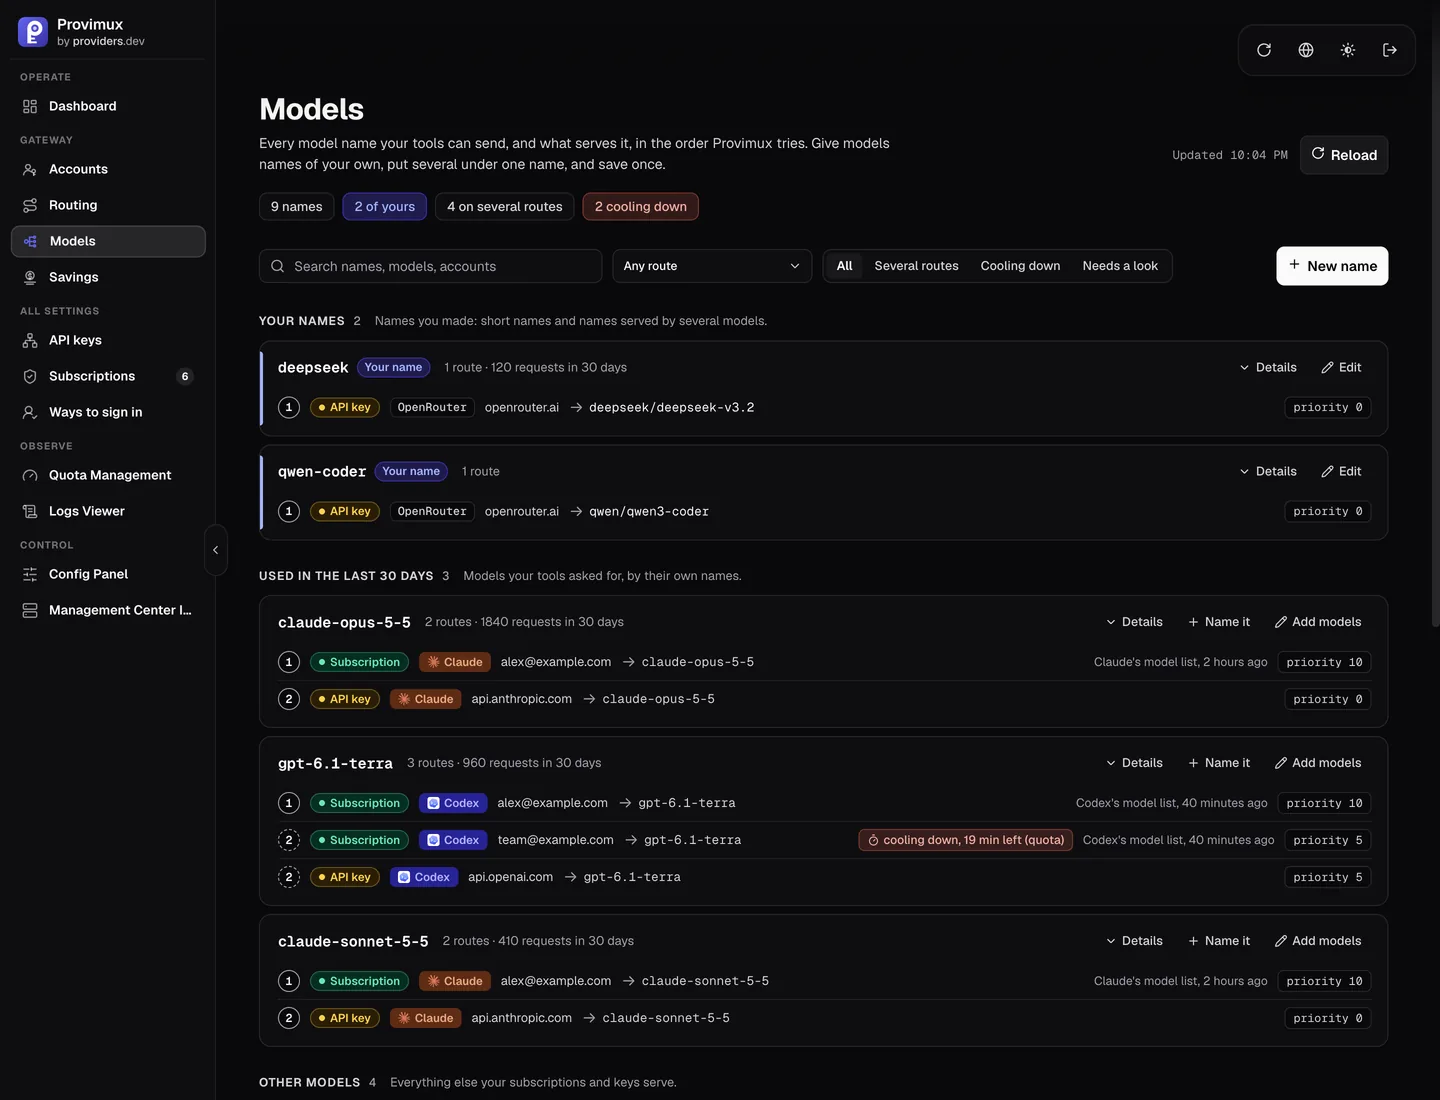
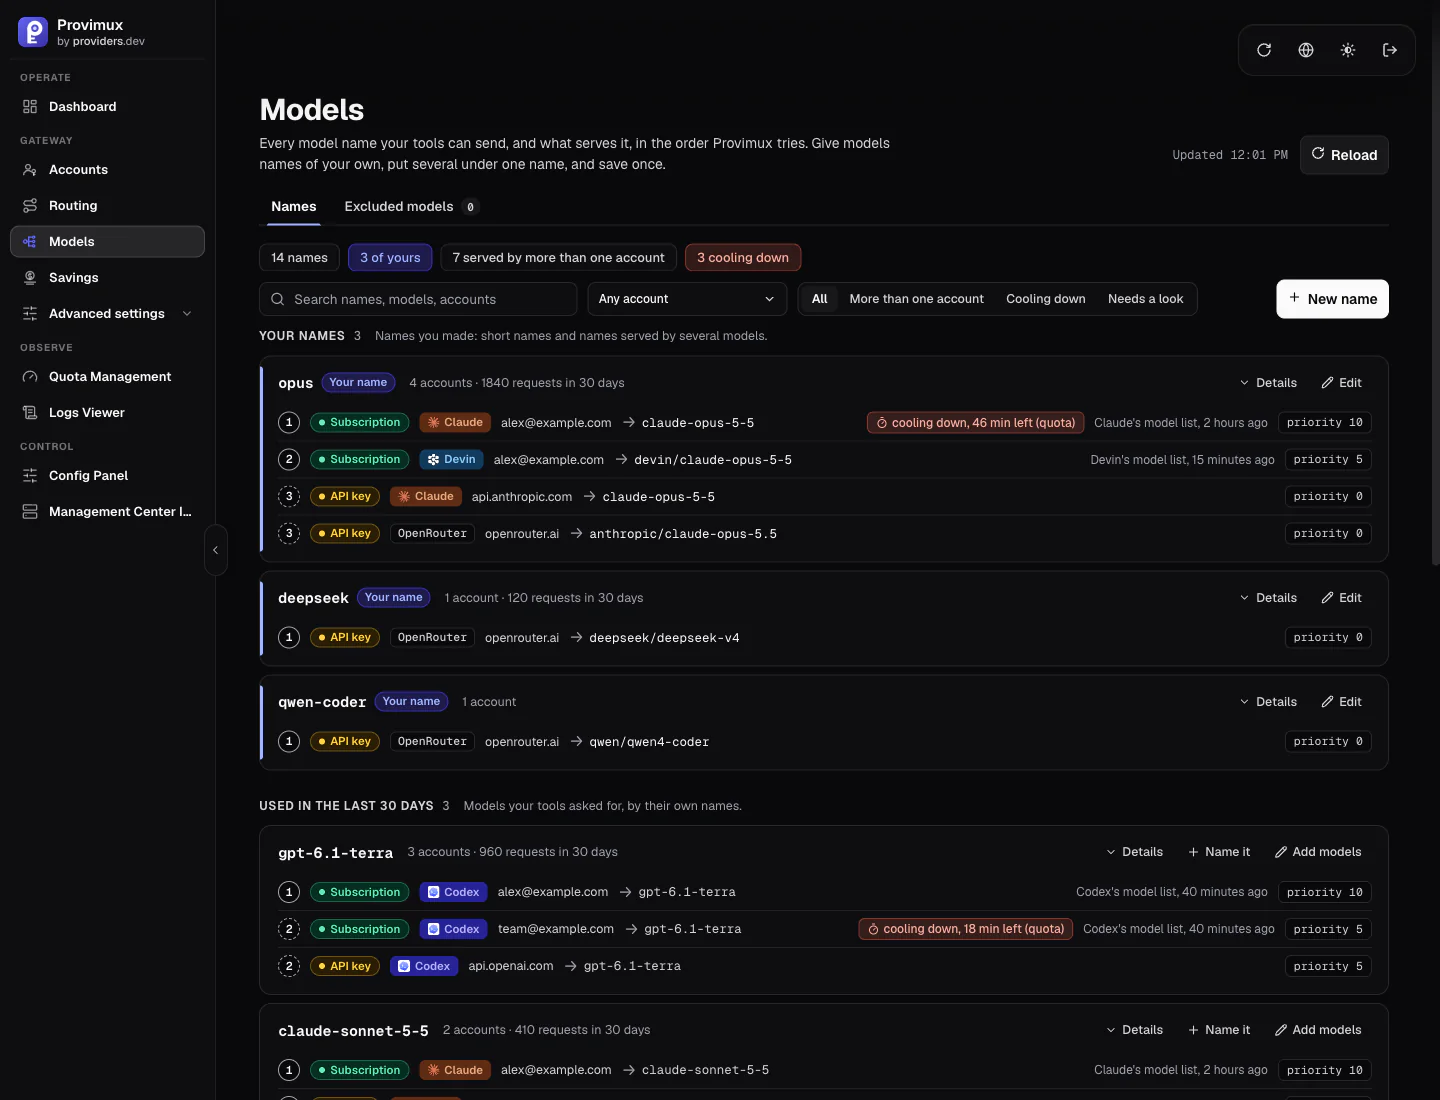
Provimux site: pools, one name for every account that can serve it
A section after "What Provimux adds", linked as Pools in the header: a name of your own with models from any
account behind it (a Claude subscription, an Anthropic API key, Devin, OpenRouter), tried by each account's priority,
the same priority sharing the requests, a cooling-down account skipped, and the account that answered named in the
response headers and in pi's footer. It says the routing is CLIProxyAPI's and what Provimux adds (the page that makes
a pool in one save, the headers), and that the console keeps the word "Your names". Nothing about limits of a pool or
a choice by price.

The picture is the pool's card from provimux-ui v1.29.2-pmx.5 against a stand-in with example data: a wide crop beside
the text, the console's own phone layout on a phone, each in both themes and two sizes. The console section's Models
picture is retaken from the same release and stand-in, with the pool on top, and its words follow the console's
("accounts", "Your names").

diff --git a/src/styles/provimux.css b/src/styles/provimux.css
@@ -403,6 +403,94 @@
     }
   }
 
+  /* Pools: the text beside one name's card from the console, and the answer that names its account. Stacked, the
+     picture comes right after the lead; side by side from 1100px, the text on the left. */
+  .pmx-pool {
+    display: grid;
+    gap: 1.5rem;
+  }
+  .pmx-pool-text,
+  .pmx-pool-shots {
+    display: contents;
+  }
+  .pmx-pool-head {
+    order: 1;
+  }
+  .pmx-pool-shot {
+    order: 2;
+  }
+  .pmx-pool-points {
+    order: 3;
+    margin-top: 0;
+  }
+  .pmx-pool-points,
+  .pmx-pool-note {
+    max-width: 48rem;
+  }
+  .pmx-pool-answer {
+    order: 4;
+  }
+  .pmx-pool-note {
+    order: 5;
+  }
+  .pmx-pool-head > p {
+    margin-top: 0.75rem;
+    max-width: 44rem;
+    color: var(--fg-soft);
+  }
+  /* A model's name is read whole: it never breaks at its hyphens */
+  .pmx-pool-text code {
+    white-space: nowrap;
+  }
+  /* The card is shown at its own size or smaller: 744px wide beside the text, the console's phone layout (424px) on a phone */
+  .pmx-pool-shot,
+  .pmx-pool-answer {
+    max-width: 746px;
+  }
+  .pmx-frame-card picture {
+    display: block;
+  }
+  @media (max-width: 639px) {
+    .pmx-pool-shot {
+      max-width: 426px;
+    }
+  }
+  @media (max-width: 700px) {
+    .pmx-frame.pmx-frame-card {
+      max-height: none;
+      mask-image: none;
+    }
+    .pmx-frame.pmx-frame-card img {
+      width: 100%;
+      max-width: 100%;
+      margin-left: 0;
+    }
+  }
+  @media (min-width: 1100px) {
+    .pmx-pool {
+      grid-template-columns: minmax(0, 1fr) minmax(0, 1.55fr);
+      column-gap: 3rem;
+      align-items: start;
+    }
+    .pmx-pool-text,
+    .pmx-pool-shots {
+      display: grid;
+      align-content: start;
+    }
+    /* The picture stays in view while the text beside it is read */
+    .pmx-pool-shots {
+      gap: 1rem;
+      position: sticky;
+      top: 5rem;
+    }
+    .pmx-pool-points {
+      margin-top: 1.4rem;
+    }
+    .pmx-pool-note {
+      margin-top: 1.25rem;
+    }
+  }
+
   /* Install */
   .pmx-install {
     display: grid;

diff --git a/tests/provimux-site.test.ts b/tests/provimux-site.test.ts
@@ -159,8 +159,8 @@ describe("Provimux's pages", () => {
 
   it("shows the console with example data, in both themes and two sizes", () => {
     const media = readdirSync(join(ROOT, "public", "provimux", "media")).sort();
-    expect(media).toEqual(["accounts", "models"].flatMap((page) => ["dark", "light"].flatMap((scheme) => [`console-${page}-${scheme}-2x.webp`, `console-${page}-${scheme}.webp`])).sort());
-    expect(home.match(/Example data\./g)).toHaveLength(2);
+    expect(media).toEqual(["accounts", "models", "pool-narrow", "pool-wide"].flatMap((page) => ["dark", "light"].flatMap((scheme) => [`console-${page}-${scheme}-2x.webp`, `console-${page}-${scheme}.webp`])).sort());
+    expect(home.match(/Example data\./g)).toHaveLength(3);
     expect(home).toContain("alex@example.com");
   });
 
